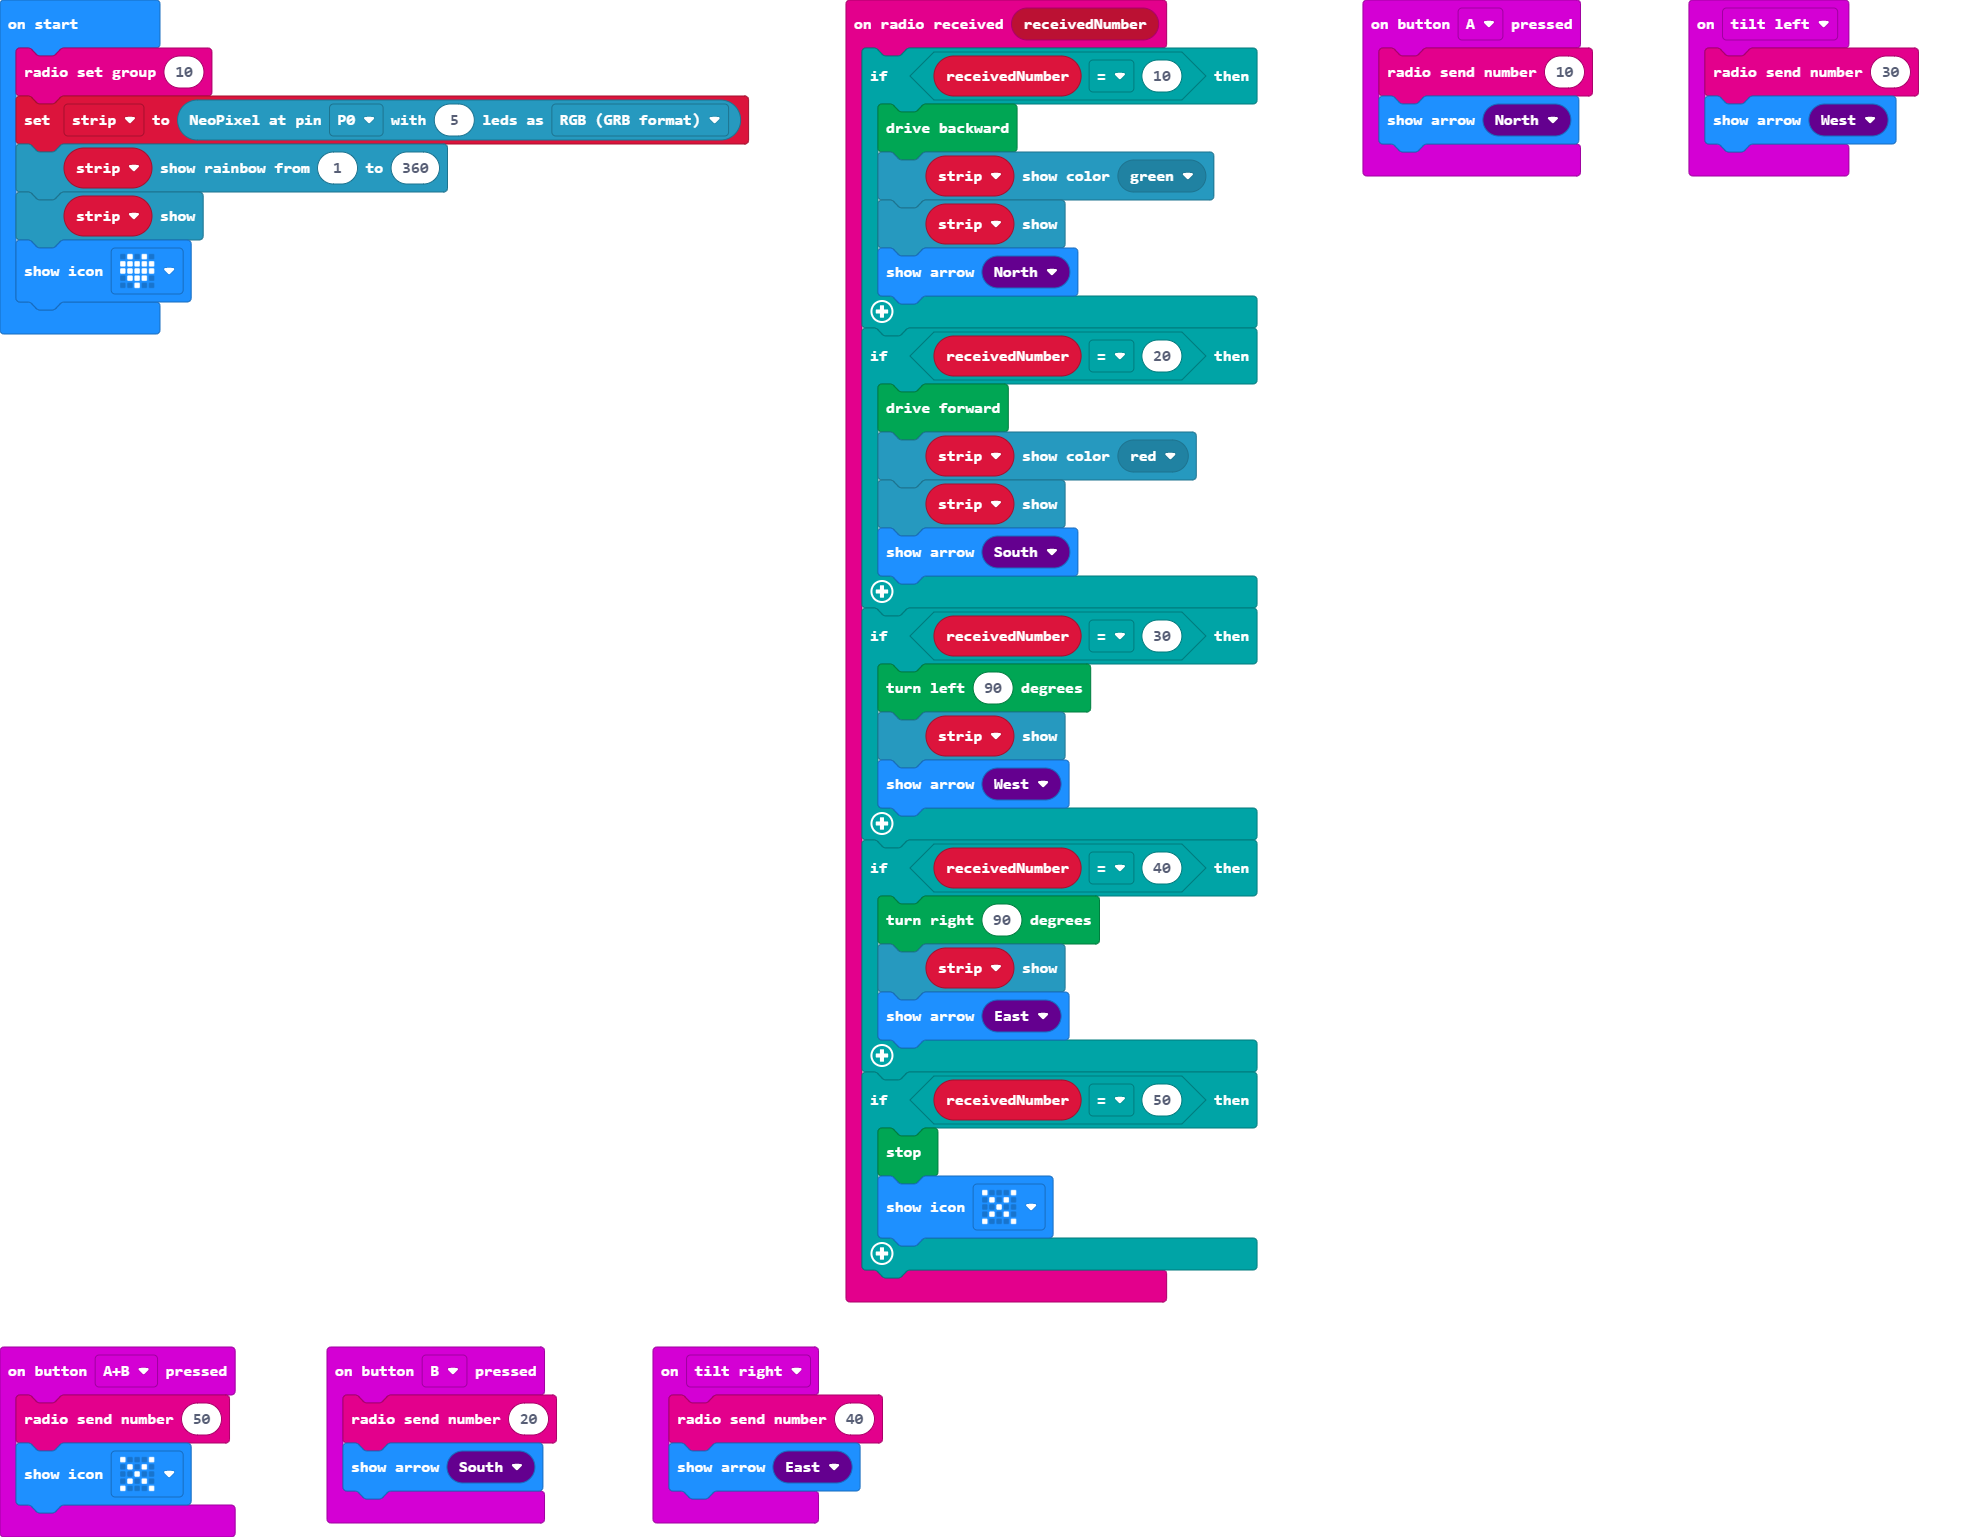
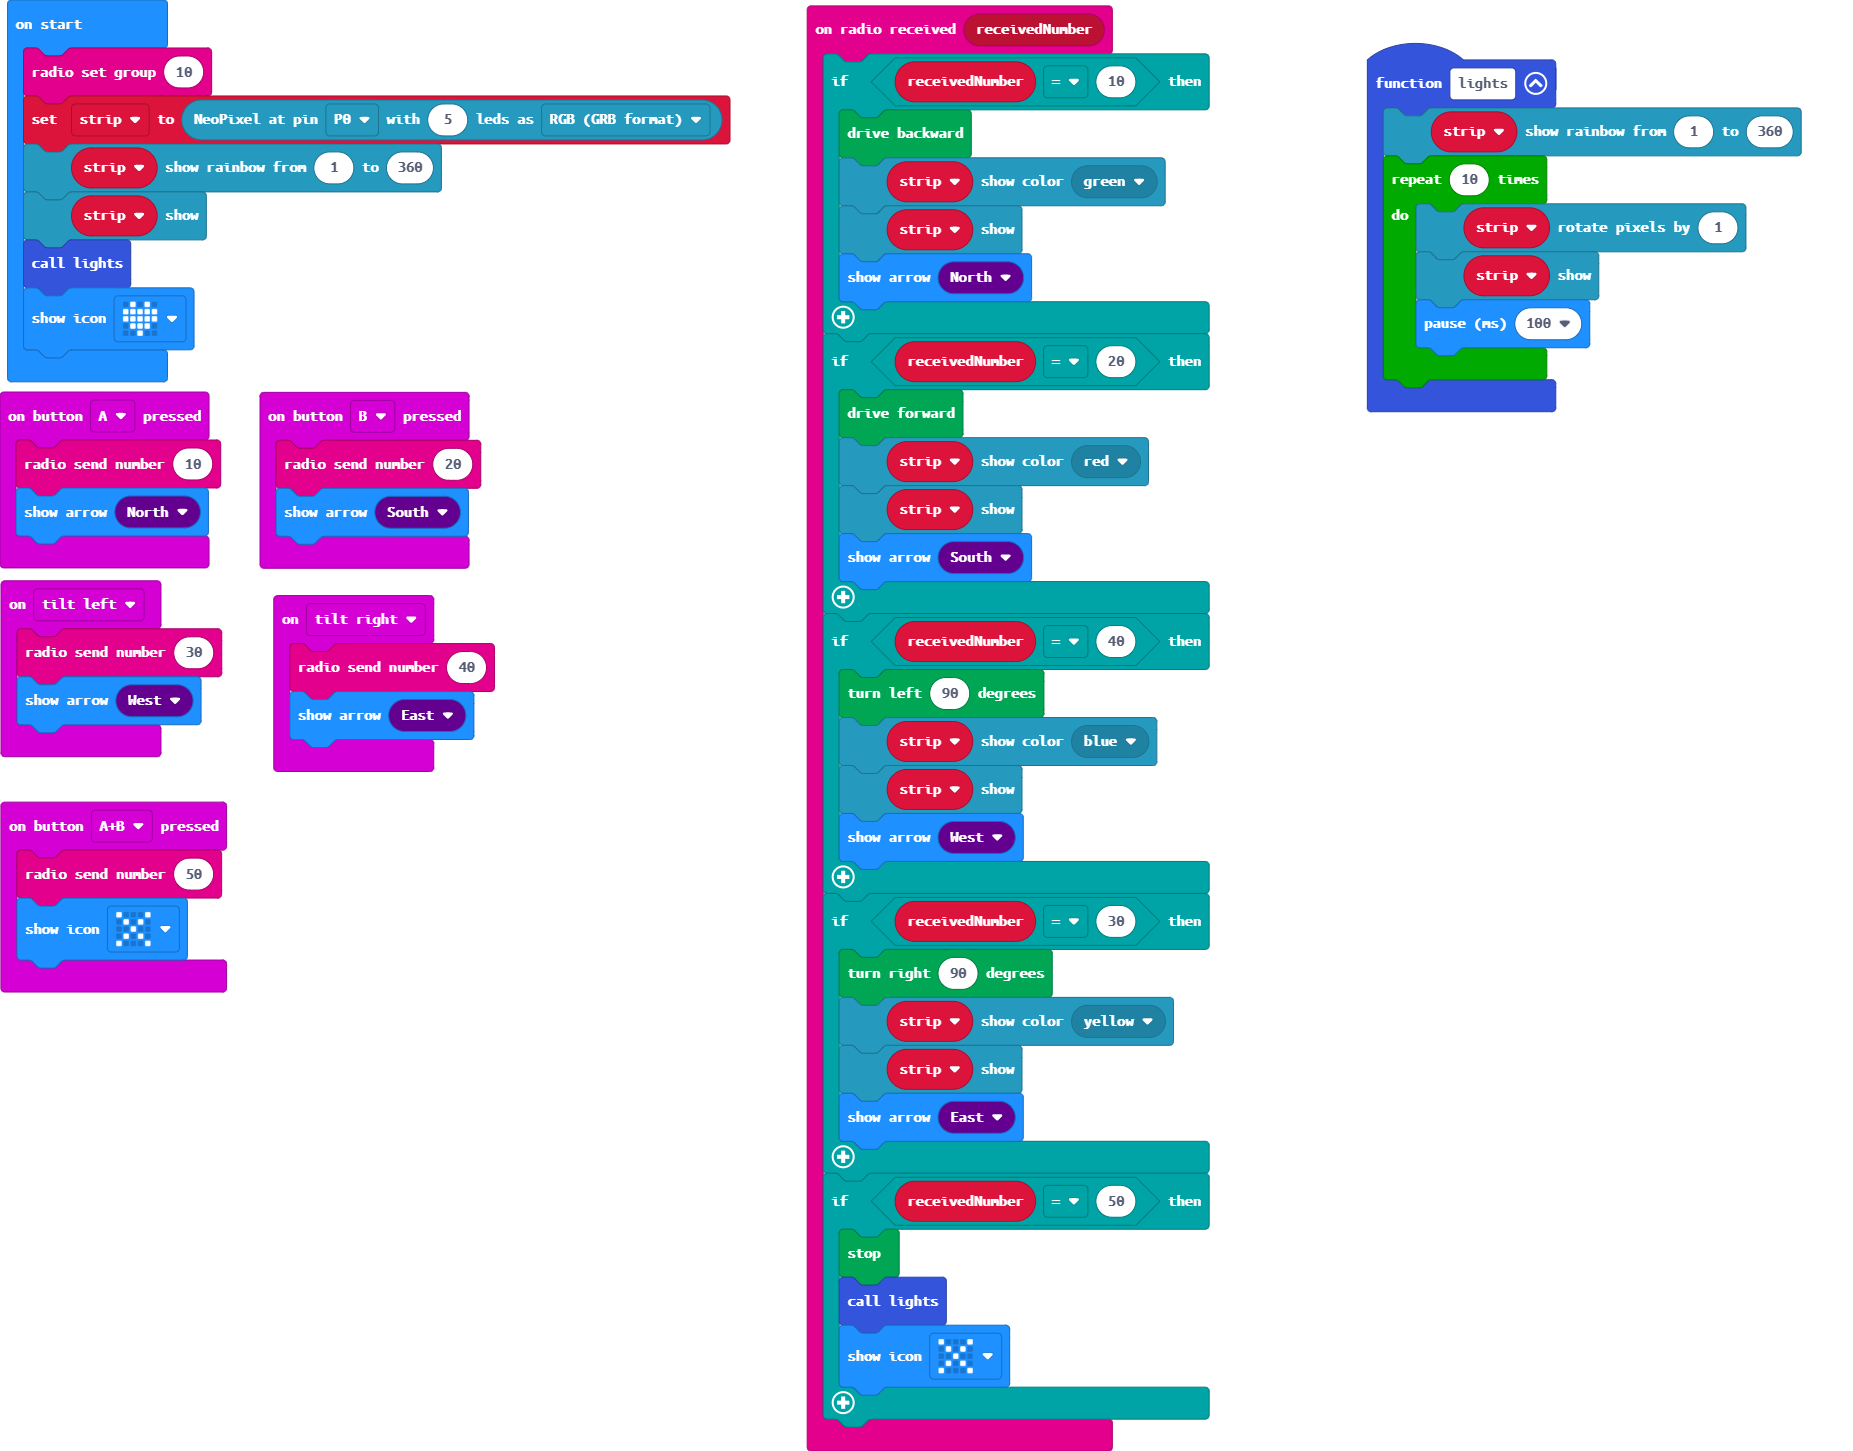
added a function for the ledlights

diff --git a/main.ts b/main.ts
@@ -11,21 +11,32 @@ radio.onReceivedNumber(function (receivedNumber) {
         strip.show()
         basic.showArrow(ArrowNames.South)
     }
-    if (receivedNumber == 30) {
+    if (receivedNumber == 40) {
         kitronik_servo_lite.turnLeft(90)
+        strip.showColor(neopixel.colors(NeoPixelColors.Blue))
         strip.show()
         basic.showArrow(ArrowNames.West)
     }
-    if (receivedNumber == 40) {
+    if (receivedNumber == 30) {
         kitronik_servo_lite.turnRight(90)
+        strip.showColor(neopixel.colors(NeoPixelColors.Yellow))
         strip.show()
         basic.showArrow(ArrowNames.East)
     }
     if (receivedNumber == 50) {
         kitronik_servo_lite.stop()
+        lights()
         basic.showIcon(IconNames.No)
     }
 })
+function lights () {
+    strip.showRainbow(1, 360)
+    for (let index = 0; index < 10; index++) {
+        strip.rotate(1)
+        strip.show()
+        basic.pause(100)
+    }
+}
 input.onButtonPressed(Button.A, function () {
     radio.sendNumber(10)
     basic.showArrow(ArrowNames.North)
@@ -51,4 +62,5 @@ radio.setGroup(10)
 strip = neopixel.create(DigitalPin.P0, 5, NeoPixelMode.RGB)
 strip.showRainbow(1, 360)
 strip.show()
+lights()
 basic.showIcon(IconNames.Heart)
